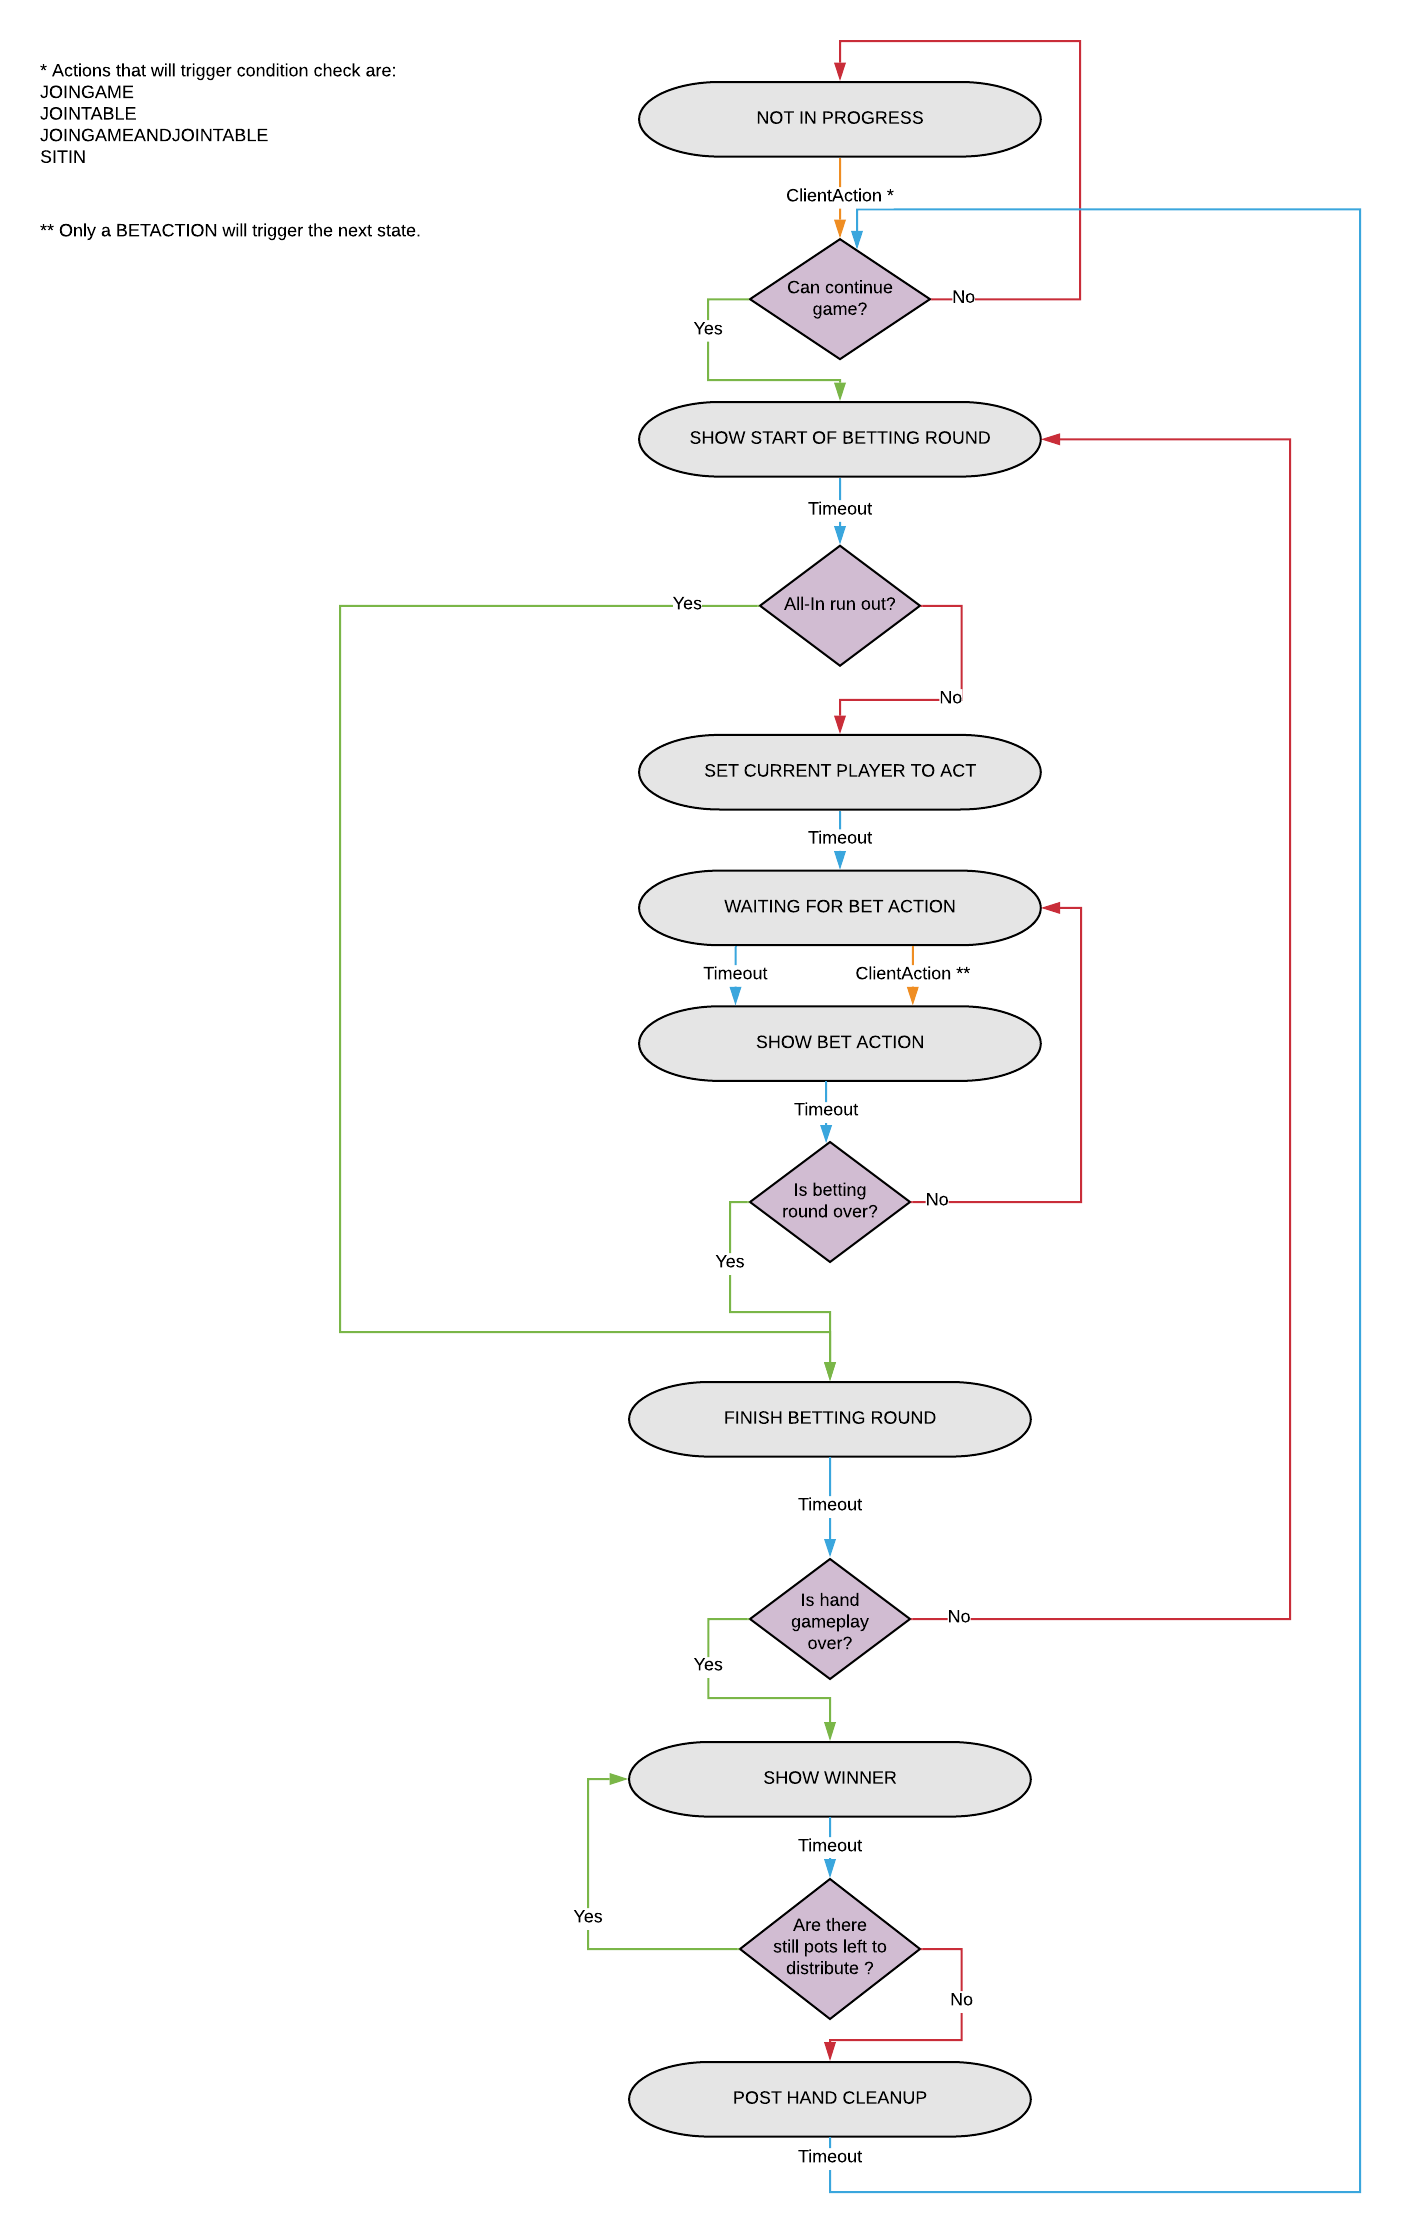
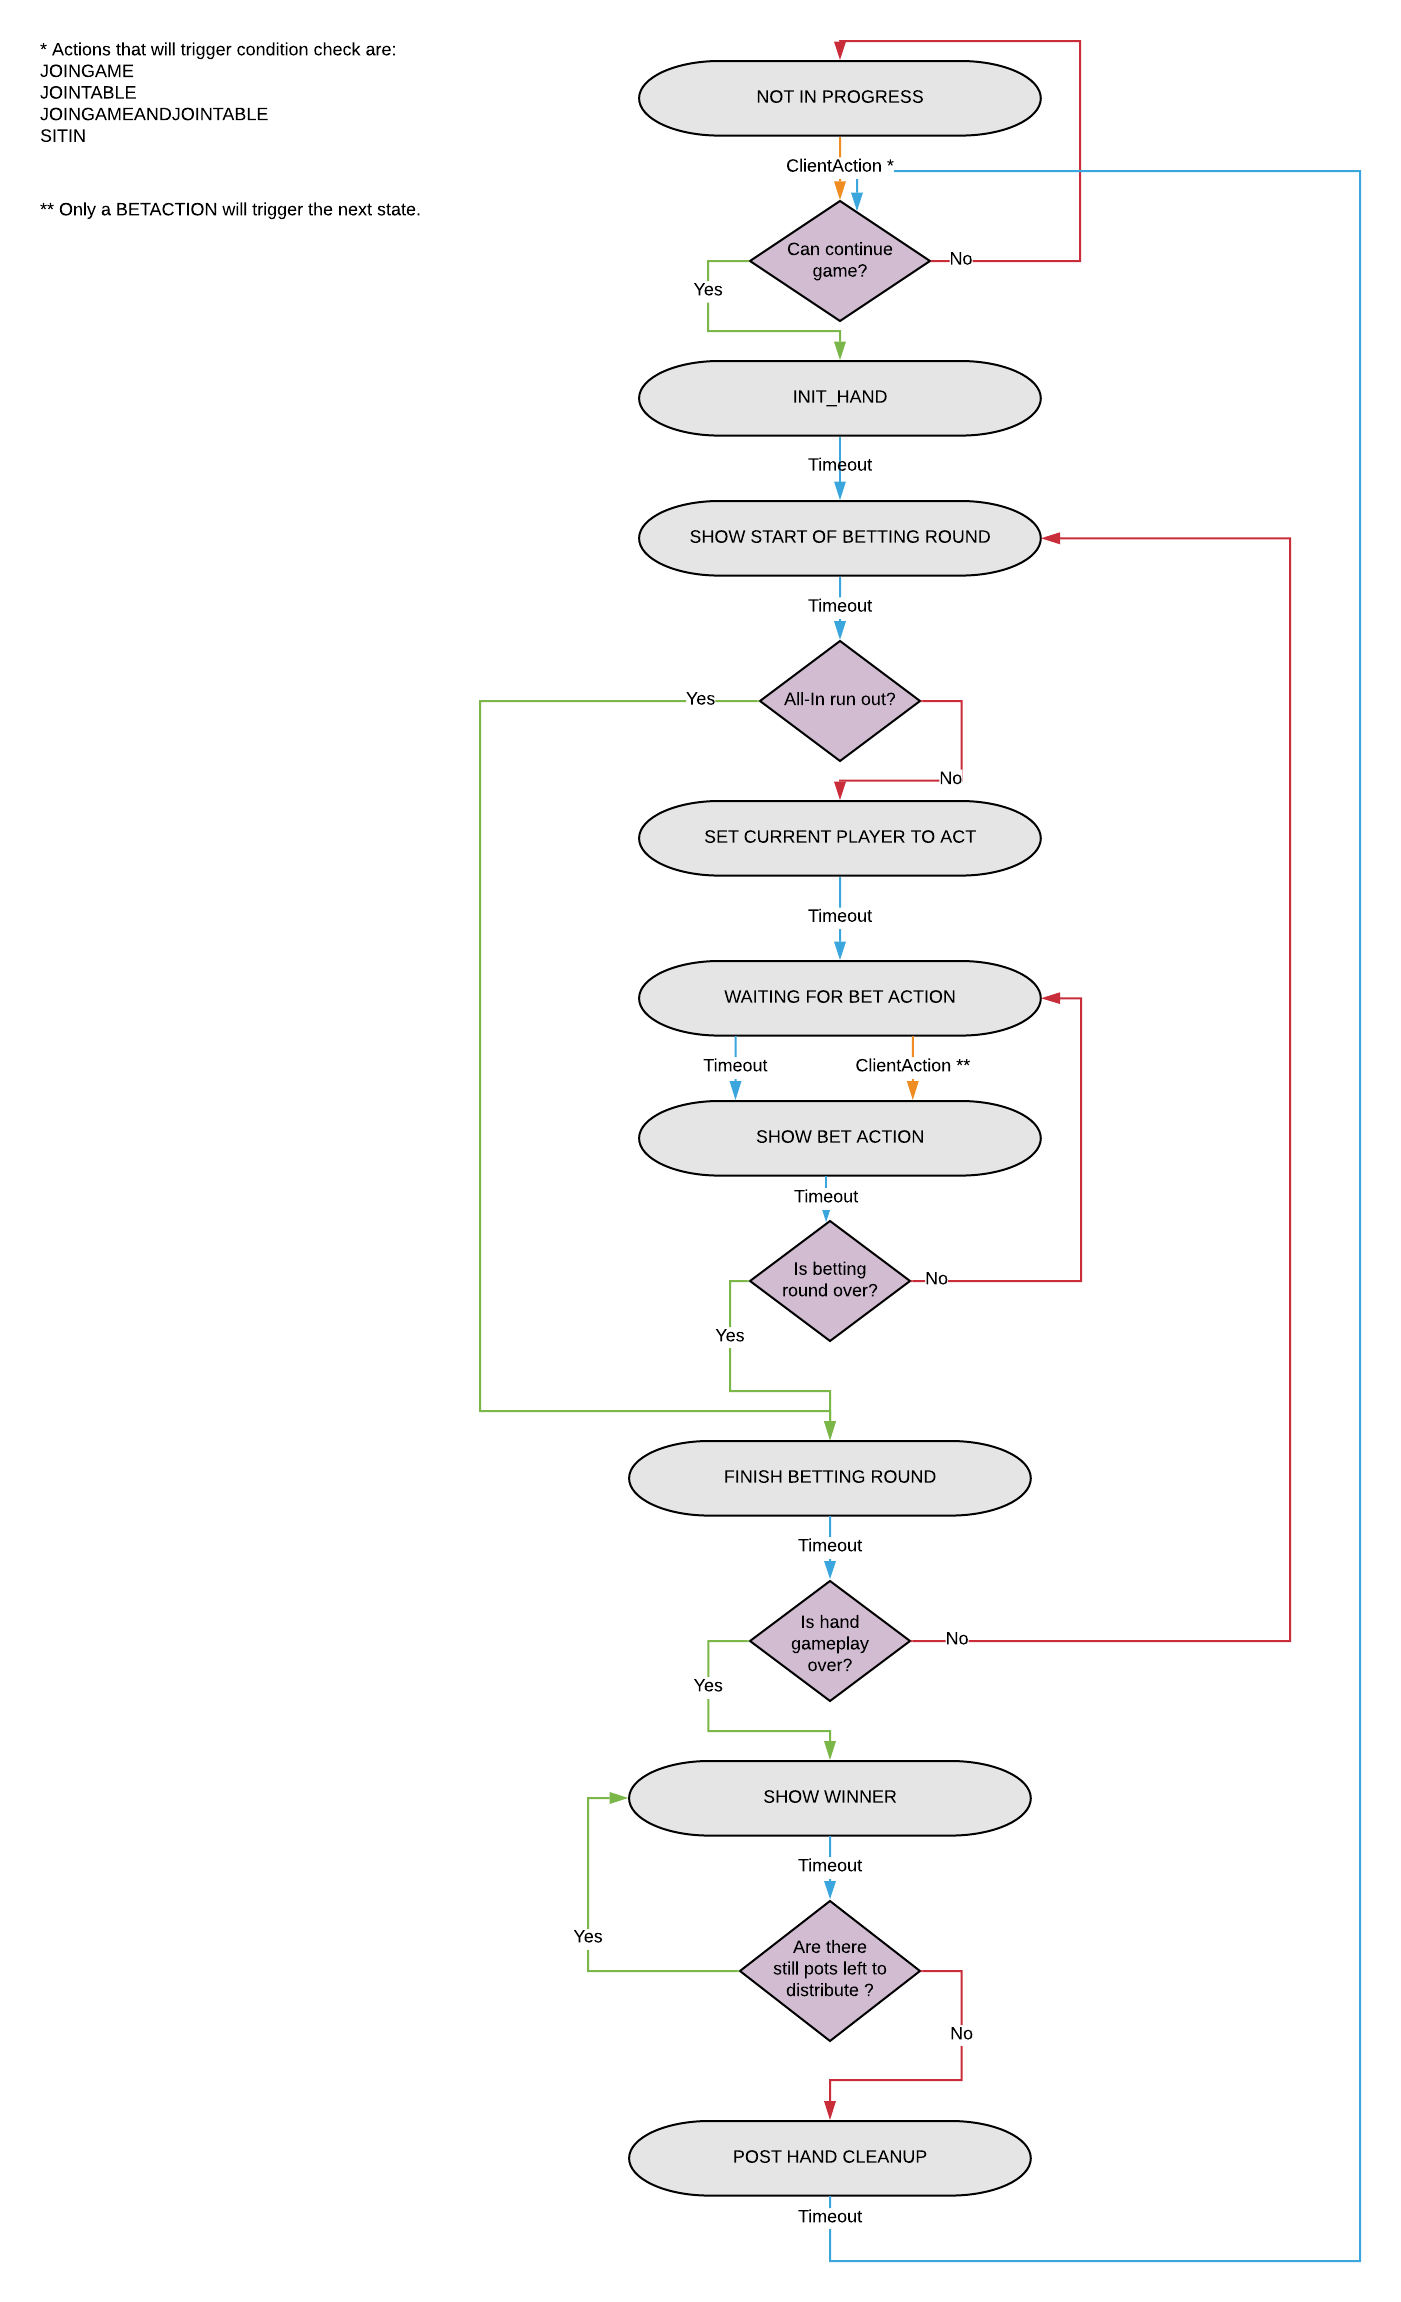
put init_hand stage back

diff --git a/server/src/logic/validationService.ts b/server/src/logic/validationService.ts
@@ -20,7 +20,7 @@ import { ValidationResponse, ErrorType, INTERNAL_SERVER_ERROR } from '../../../u
 import { ClientUUID, PlayerUUID } from '../../../ui/src/shared/models/system/uuid';
 import { Card, cardsAreEqual } from '../../../ui/src/shared/models/game/cards';
 import { MIN_VALUES, MAX_VALUES } from '../../../ui/src/shared/util/consts';
-import { GameStage } from '../../../ui/src/shared/models/game/stateGraph';
+import { GameStage, INIT_HAND_STAGES } from '../../../ui/src/shared/models/game/stateGraph';
 
 const MAX_NAME_LENGTH = 32;
 
@@ -149,7 +149,10 @@ export class ValidationService {
     }
 
     validateJoinGameRequest(clientUUID: ClientUUID, request: JoinGameRequest): ValidationResponse {
-        const error = this.ensureClientIsNotInGame(clientUUID);
+        let error = this.ensureClientIsNotInGame(clientUUID);
+        if (error) return error;
+
+        error = this.validateNotInGameStages(INIT_HAND_STAGES, 'sit down');
         if (error) return error;
 
         if (request.name.length > MAX_NAME_LENGTH) {
@@ -177,6 +180,9 @@ export class ValidationService {
         if (error) {
             return error;
         }
+
+        error = this.validateNotInGameStages(INIT_HAND_STAGES, 'sit down');
+        if (error) return error;
 
         const seatNumber = request.seatNumber;
         const player = this.gsm.getPlayerByClientUUID(clientUUID);
@@ -211,8 +217,12 @@ export class ValidationService {
     }
 
     validateJoinGameAndTableRequest(clientUUID: ClientUUID, request: JoinGameAndTableRequest): ValidationResponse {
-        const error = this.validateJoinGameRequest(clientUUID, request);
+        let error = this.validateJoinGameRequest(clientUUID, request);
         if (error) return error;
+
+        error = this.validateNotInGameStages(INIT_HAND_STAGES, 'sit down');
+        if (error) return error;
+
         if (!this.gsm.areOpenSeats()) {
             return {
                 errorType: ErrorType.ILLEGAL_ACTION,
@@ -227,7 +237,7 @@ export class ValidationService {
         let error = this.ensureClientIsInGame(clientUUID);
         if (error) return error;
 
-        error = this.validateNotInGameStages([GameStage.SHOW_START_OF_BETTING_ROUND], 'switch seats');
+        error = this.validateNotInGameStages(INIT_HAND_STAGES, 'switch seats');
         if (error) return error;
 
         const player = this.gsm.getPlayerByClientUUID(clientUUID);
@@ -259,7 +269,7 @@ export class ValidationService {
         const error = this.ensureClientIsInGame(clientUUID);
         if (error) return error;
 
-        return this.validateNotInGameStages([GameStage.SHOW_START_OF_BETTING_ROUND], 'sit in/out');
+        return this.validateNotInGameStages(INIT_HAND_STAGES, 'sit in/out');
     }
 
     validateSitInAction(clientUUID: ClientUUID): ValidationResponse {
@@ -526,7 +536,10 @@ export class ValidationService {
     }
 
     validateQuitGameRequest(clientUUID: ClientUUID): ValidationResponse {
-        const error = this.ensureClientIsInGame(clientUUID);
+        let error = this.ensureClientIsInGame(clientUUID);
+        if (error) return error;
+
+        error = this.validateNotInGameStages(INIT_HAND_STAGES, 'sit down');
         if (error) return error;
 
         const player = this.gsm.getPlayerByClientUUID(clientUUID);
@@ -545,6 +558,9 @@ export class ValidationService {
 
         const player = this.gsm.getPlayerByClientUUID(clientUUID);
         error = this.ensurePlayerIsAtTable(player.uuid);
+        if (error) return error;
+
+        error = this.validateNotInGameStages(INIT_HAND_STAGES, 'sit down');
         if (error) return error;
 
         if (player.quitting) {

diff --git a/server/src/logic/stateGraphManager.ts b/server/src/logic/stateGraphManager.ts
@@ -30,7 +30,7 @@ export class StateGraphManager {
 
     canContinueGameCondition: Condition = {
         fn: () => this.gameStateManager.canDealNextHand(),
-        TRUE: GameStage.SHOW_START_OF_BETTING_ROUND,
+        TRUE: GameStage.INIT_HAND,
         FALSE: GameStage.NOT_IN_PROGRESS,
     };
 
@@ -67,9 +67,11 @@ export class StateGraphManager {
             [ClientActionType.JOINGAMEANDJOINTABLE, this.canContinueGameCondition],
             [ClientActionType.SITIN, this.canContinueGameCondition],
         ]),
+        [GameStage.INIT_HAND]: new Map([[ServerActionType.GAMEPLAY_TIMEOUT, GameStage.SHOW_START_OF_BETTING_ROUND]]),
         [GameStage.SHOW_START_OF_BETTING_ROUND]: new Map([
             [ServerActionType.GAMEPLAY_TIMEOUT, this.isAllInRunOutCondition],
         ]),
+
         [GameStage.SET_CURRENT_PLAYER_TO_ACT]: new Map([
             [ServerActionType.GAMEPLAY_TIMEOUT, GameStage.WAITING_FOR_BET_ACTION],
         ]),
@@ -88,6 +90,7 @@ export class StateGraphManager {
 
     stageDelayMap: StageDelayMap = {
         [GameStage.NOT_IN_PROGRESS]: 0,
+        [GameStage.INIT_HAND]: 50,
         [GameStage.SHOW_START_OF_BETTING_ROUND]: 750,
         [GameStage.SET_CURRENT_PLAYER_TO_ACT]: 50, // TODO there does not need to be a delay here.
         [GameStage.WAITING_FOR_BET_ACTION]: 0,
@@ -188,11 +191,13 @@ export class StateGraphManager {
                 break;
             }
 
+            case GameStage.INIT_HAND: {
+                this.gamePlayService.initializeNewHand();
+                break;
+            }
+
             case GameStage.SHOW_START_OF_BETTING_ROUND: {
                 this.gameStateManager.incrementBettingRoundStage();
-                if (this.gameStateManager.getBettingRoundStage() === BettingRoundStage.PREFLOP) {
-                    this.gamePlayService.initializeNewHand();
-                }
                 this.gamePlayService.resetBettingRoundActions();
                 this.gamePlayService.initializeBettingRound();
                 this.gamePlayService.updateIsAllInRunOut();

diff --git a/server/src/logic/gamePlayService.ts b/server/src/logic/gamePlayService.ts
@@ -422,8 +422,13 @@ export class GamePlayService {
         switch (bettingRoundStage) {
             case BettingRoundStage.PREFLOP: {
                 this.animationService.setDealCardsAnimation();
-                this.gsm.forEveryPlayerUUID((playerUUID) => {
-                    if (this.gsm.isPlayerReadyToPlay(playerUUID)) {
+                this.gsm.getSeatsDealtIn().forEach((playerSeat) => {
+                    const { playerUUID, seatNumber } = playerSeat;
+
+                    if (
+                        this.gsm.getPlayerSeatNumber(playerUUID) === seatNumber &&
+                        this.gsm.isPlayerReadyToPlay(playerUUID)
+                    ) {
                         this.dealHoleCards(playerUUID);
                         this.ledgerService.incrementHandsDealtIn(this.gsm.getClientByPlayerUUID(playerUUID));
                         this.gameInstanceLogService.updatePlayerCards(playerUUID);

diff --git a/ui/src/shared/models/game/stateGraph.ts b/ui/src/shared/models/game/stateGraph.ts
@@ -19,6 +19,7 @@ export function instanceOfCondition(edge: GraphEdge): edge is Condition {
 
 export const enum GameStage {
     NOT_IN_PROGRESS = 'NOT_IN_PROGRESS',
+    INIT_HAND = 'INIT_HAND',
     SHOW_START_OF_BETTING_ROUND = 'SHOW_START_OF_BETTING_ROUND',
     WAITING_FOR_BET_ACTION = 'WAITING_FOR_BET_ACTION',
     SHOW_BET_ACTION = 'SHOW_BET_ACTION',
@@ -28,4 +29,4 @@ export const enum GameStage {
     SET_CURRENT_PLAYER_TO_ACT = 'SET_CURRENT_PLAYER_TO_ACT',
 }
 
-
+export const INIT_HAND_STAGES = [GameStage.INIT_HAND, GameStage.SHOW_START_OF_BETTING_ROUND];

diff --git a/server/src/io/stateConverter.ts b/server/src/io/stateConverter.ts
@@ -235,7 +235,8 @@ export class StateConverter {
             curBet: curBet,
             min: minBet,
             max: maxBet,
-            unqueueAllBettingRoundActions: gameStage === GameStage.FINISH_BETTING_ROUND,
+            unqueueAllBettingRoundActions:
+                gameStage === GameStage.INIT_HAND || gameStage === GameStage.FINISH_BETTING_ROUND,
             sizingButtons: getSizingButtons(),
             bettingActionButtons: this.getValidBettingRoundActions(clientUUID, heroPlayerUUID, toAct),
             dealInNextHand: !hero.sittingOut,
